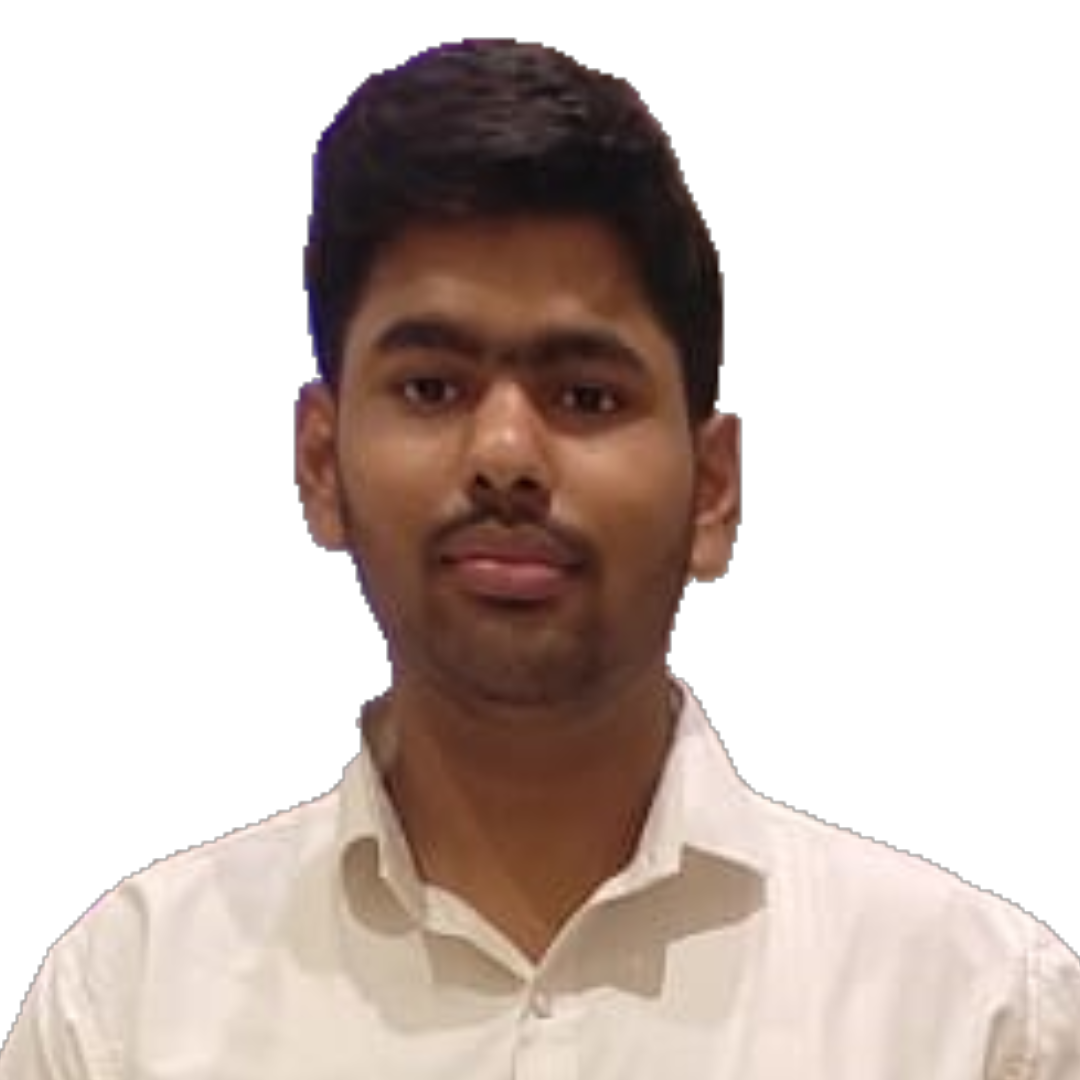
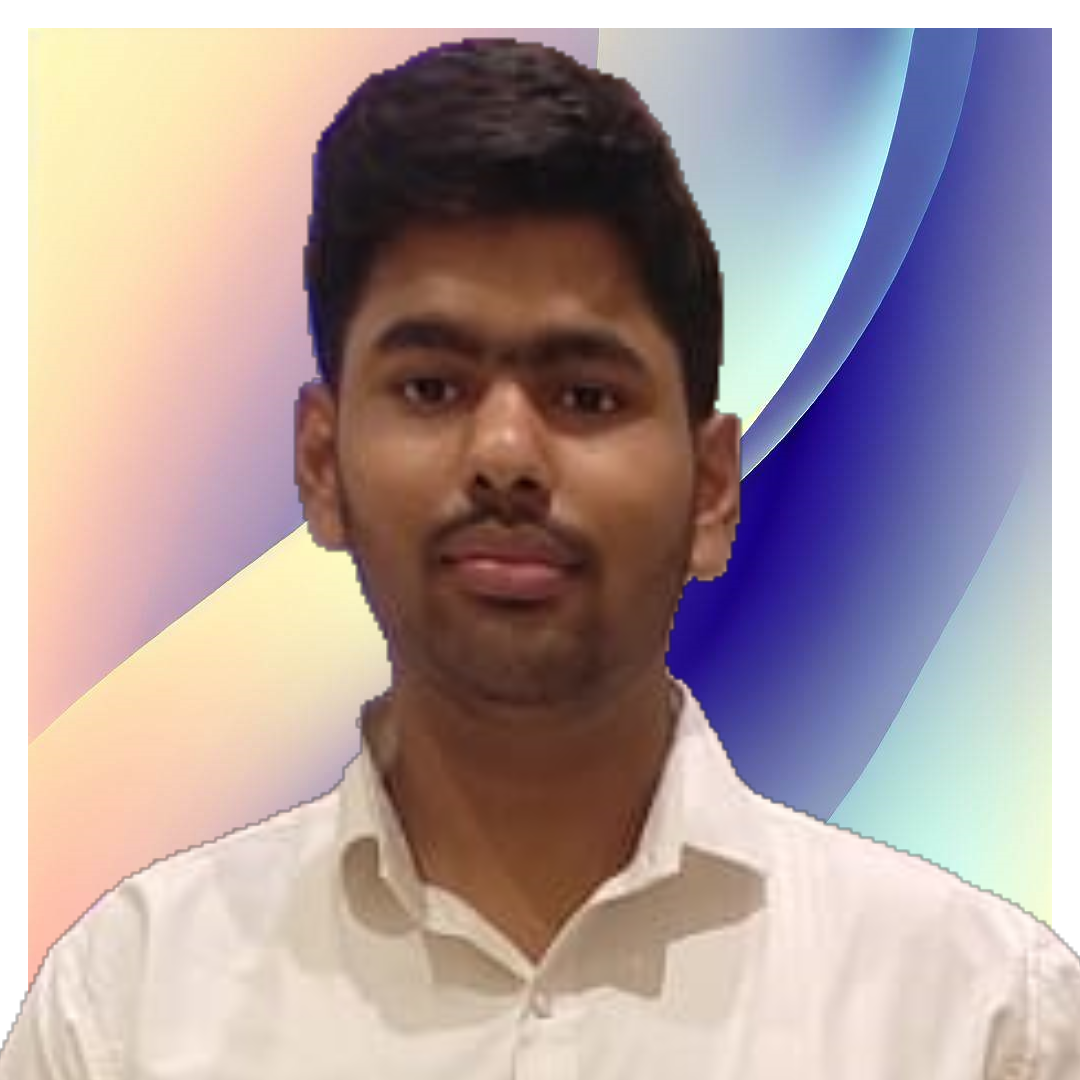
introduction done

diff --git a/CSS/index.css b/CSS/index.css
@@ -1,90 +1,108 @@
-*{
+* {
     margin: 0;
     padding: 0;
     box-sizing: border-box;
     scroll-behavior: smooth;
     user-select: none;
     color: #343d68;
-    font-family:system-ui, -apple-system, BlinkMacSystemFont, 'Segoe UI', Roboto, Oxygen, Ubuntu, Cantarell, 'Open Sans', 'Helvetica Neue', sans-serif;
+    font-family: system-ui, -apple-system, BlinkMacSystemFont, 'Segoe UI', Roboto, Oxygen, Ubuntu, Cantarell, 'Open Sans', 'Helvetica Neue', sans-serif;
 }
-#wrapper{
-    height:100vh;
+
+#wrapper {
+    height: 100vh;
     overflow-x: hidden;
     overflow-y: auto;
 }
-#container{
-    width:90vw;
-    margin:0 auto;
+
+#container {
+    width: 90vw;
+    margin: 0 auto;
 }
-.navbar{
-    display:flex;
+
+.navbar {
+    display: flex;
     justify-content: space-between;
     align-items: center;
-    padding-top:calc((3vw + 3vh) / 2);
+    padding-top: calc((3vw + 3vh) / 2);
 }
-.logo{
+
+.logo {
     width: 2em;
 }
-.logo-container{
-    display:flex;
+
+.logo-container {
+    display: flex;
     justify-content: baseline;
     align-items: center;
 }
-.logo-text{
-    margin-left:-0.1em;
+
+.logo-text {
+    margin-left: -0.1em;
     font-size: calc(1.3vw + 1.3vh);
 }
-.nav-items{
-    display:flex;
-    gap:4em;
+
+.nav-items {
+    display: flex;
+    gap: calc(3.5vw + 3.5vh);
 }
-.nav-items div{
+
+.nav-items div {
     font-size: calc(1vw + 1vh);
-    font-weight:500;
+    font-weight: 500;
     cursor: pointer;
 }
-.nav-items div a{
+
+.nav-items div a {
     text-decoration: none;
     color: black;
 }
-.nav-items div:hover{
+
+.nav-items div:hover {
     text-decoration: underline;
     transform: scale(1.01);
     font-weight: 580;
     transition-duration: 1.5s;
     text-shadow: 0 0 0.5em black;
 }
+
 /* NAV ENDING */
-.introduction{
+.introduction {
     position: relative;
     display: flex;
-    justify-content: center;
+    justify-content: flex-start;
     align-items: center;
-    gap:calc(5vw + 5vh);
-    margin:calc(4vw + 4vh) auto;
-    padding:0 1 em;
-    padding-bottom: 8em;;
+    gap: calc(5vw + 5vh);
+    margin: calc(4vw + 4vh) auto;
+    padding: 0 1 em;
+    padding-bottom: calc(7.5vw + 7.5vh);
+    ;
 }
-.introduction-left{
+
+.introduction-left {
     display: flex;
     flex-direction: column;
     justify-content: center;
-    gap:calc(2vw + 2vh);
+    gap: calc(2vw + 2vh);
 }
-.introduction-heading{
-    font-size:calc(2vw + 2vh) ;
+
+.introduction-heading {
+    font-size: calc(2vw + 2vh);
     font-weight: 620;
 }
-.introduction-sub-heading{
+
+.introduction-sub-heading {
+    width: 100%;
     font-size: calc(2vw + 2vh);
     font-weight: 600;
 }
-.introduction-description{
+
+.introduction-description {
     margin-top: calc(1vw + 1vh);
-    width:70%;
+    width: 90%;
     font-size: calc(1vw + 1vh);
 }
-.introduction-btn{
+
+.introduction-btn {
     font-weight: 500;
     text-decoration: none;
     color: aliceblue;
@@ -97,34 +115,67 @@
     box-shadow: 3px 3px 3px rgb(59, 59, 59);
     cursor: pointer;
 }
-.introduction-btn:hover{
+
+.introduction-btn:hover {
     transition: 2s ease;
     text-shadow: 2px 2px 2px rgb(255, 0, 0);
     box-shadow: 3px 3px 3px rgb(240, 24, 24);
     background-color: black;
-    text-decoration:aliceblue;
-}.introduction-right{
-    position: relative;
+    text-decoration: aliceblue;
 }
-.user{
-    position:absolute;
-    padding: calc(2vw + 2vh);
-    width:calc(17vw + 17vh);
+
+.user {
+    border: calc(1vw + 1vh) solid white;
+    padding: calc(1vw + 1vh);
+    width: calc(15vw + 15vh);
+    animation: scaleImage 5s linear infinite;
+    filter: grayscale(1);
 }
-.image{
-    z-index: 1;
+
+@keyframes scaleImage {
+    20% {
+        width: calc(15.1vw + 15.1vh);
+    }
+
+    30% {
+        width: calc(15.2vw + 15.2vh);
+        filter: grayscale(0);
+    }
+    
+    40% {
+        width: calc(15.4vw + 15.4vh);
+        filter: grayscale(0);
+        box-shadow: -3px -3px 10px black;
+    }
+    
+    50% {
+        width: calc(15.5vw + 15.5vh);
+        filter: grayscale(0);
+    }
+    
+    60% {
+        width: calc(15.6vw + 15.8vh);
+        filter: grayscale(0);
+    }
+
+    70% {
+        filter: grayscale(0);
+        padding: calc(0vw + 0vh);
+        width: calc(16vw + 16vh);
+        box-shadow: 5px 5px 5px black;
+    }
 }
-.background{
-    z-index: -1;
-}
-.faded-name{
-    font-size: 7em;
-    color: rgb(160, 159, 159);
+
+.faded-name {
+    position: absolute;
+    font-size: calc(6vw + 6vh);
+    color: rgb(219, 218, 218);
     bottom: -16%;
-    /* left:- calc(5vw + 5vh); */
+    left:-5%;
     font-weight: bold;
 }
-.role{
-    color:rgb(69, 46, 85);
+
+.role {
+    color: rgb(69, 46, 85);
     font-weight: 650;
 }

diff --git a/index.html b/index.html
@@ -37,11 +37,12 @@
                     <div class="user image">
                         <img src="Pic/anuj.png" alt="Anuj" class="user image" />
                     </div>
-                    <div class="user background">
-                        <img src="Pic/user image background.jpeg" alt="Anuj" class="user background" />
-                    </div>
                 </div>
-                <!-- <div class="faded-name">Anuj Garg</div> -->
+                <div class="faded-name">Anuj Garg</div>
+            </div>
+            <div class="projects">
+                <h2>Projects</h2>
+                
             </div>
         </div>
     </div>

diff --git a/JS/index.js b/JS/index.js
@@ -1,6 +1,6 @@
 var typeData = new Typed(".role", {
     strings: [
-      "Full Stack Developer",
+      "Web Developer",
       "Coder",
       "Dsa Lover",
       "Backend Developer",
